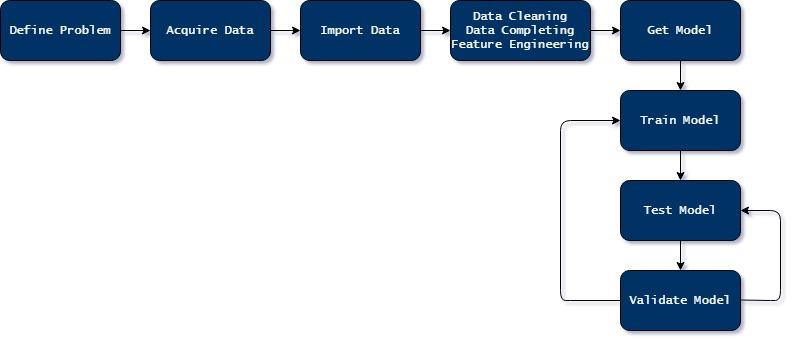
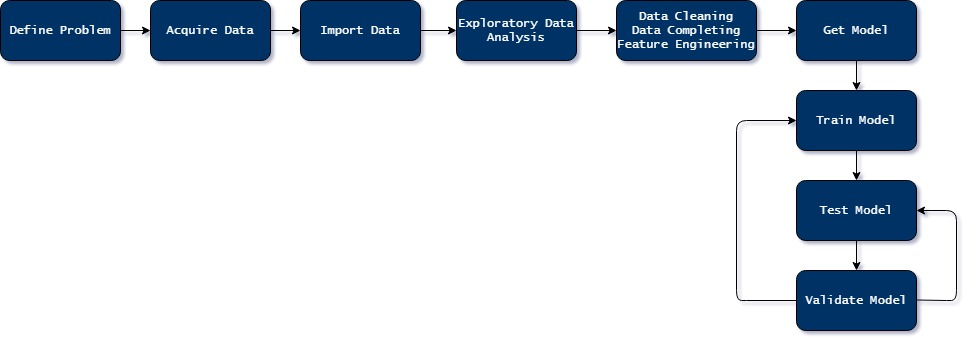
update

diff --git a/_posts/2020-05-14-Machine Learning flow.md b/_posts/2020-05-14-Machine Learning flow.md
@@ -8,7 +8,7 @@ author_profile: true
 mathjax: true
 ---
 
-The entire workflow of any supervised machine learning project can be described in 8 steps shown below:  
+The entire workflow of any supervised machine learning project can be described in nine steps shown below:  
 
 ![Machine learning flow](/assets/images/machine_learning_flow.JPG)
 
@@ -24,10 +24,14 @@ You acquire your data from different sources. For most of our projects, we will 
 **Import Data**  
 We will import our data into python with Pandas
 
+**Exploratory Data Analysis**  
+We will explore the data both descriptively and visually here and try to get familar with our data model. Here we will also explore the relations of features with our target.
+
 **Data cleaning, Data completing, Feature engineering**  
-We will be cleaning our data by dropping the features that are not needed (if there is any)  
-We will be completing our data by either filling in the Nan/null values or dropping them altogether  
-We may need to create new features based on the existing feature set where required
+Based on the learnings from our 'Exploratory Data Analysis' phase, here:  
+    - We will be cleaning our data by dropping the features that are not needed (if there is any)  
+    - We will be completing our data by either filling in the Nan/null values or dropping them altogether  
+    - We may need to create new features based on the existing feature set where required
 
 **Get Model**  
 We will get our model and instantiate it
